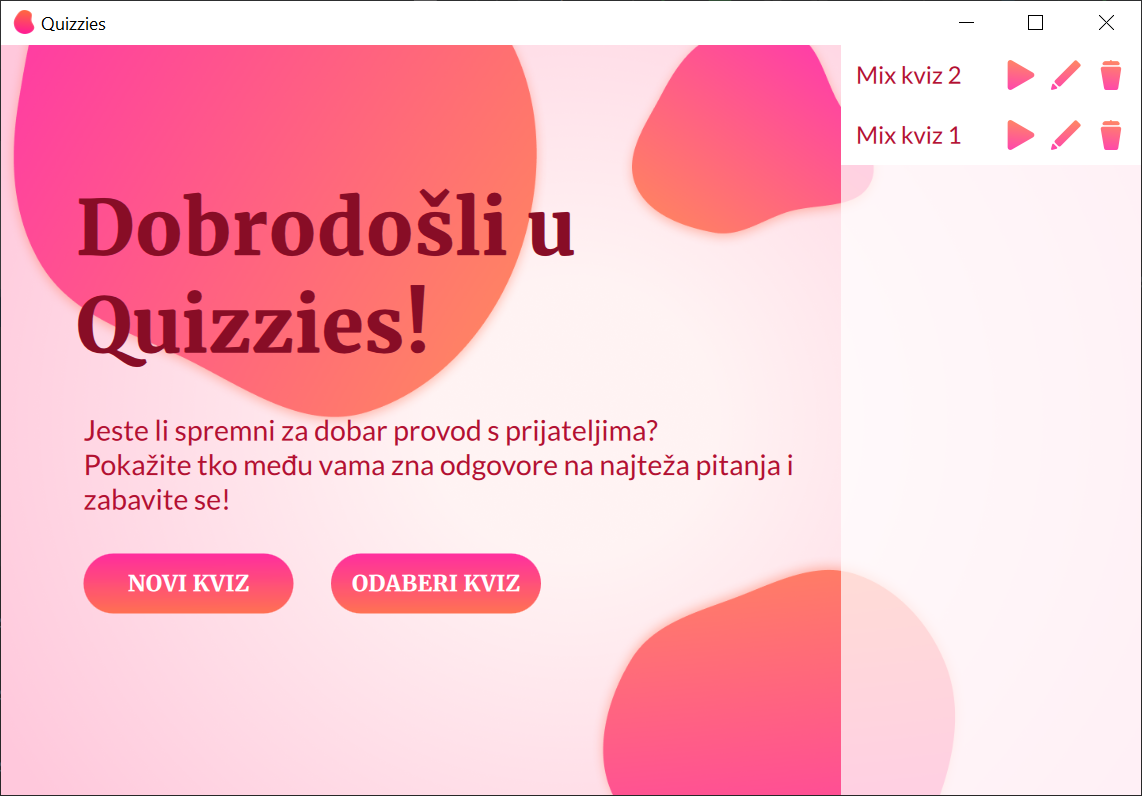
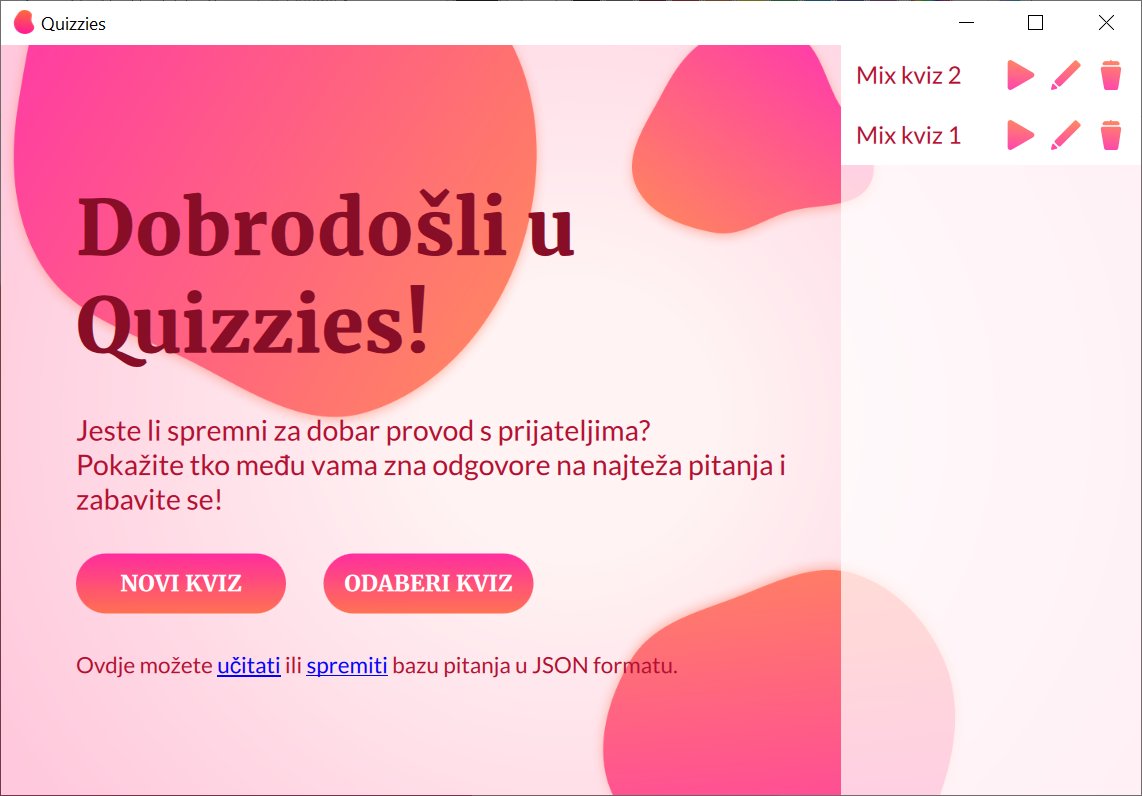
update README.md

diff --git a/README.md b/README.md
@@ -21,6 +21,8 @@ python main.py
 
 On the home screen, you can choose to create your quiz or select one of the existing quizzes. All the quizzes you create and the few default ones are displayed in a list, and you can either view them, edit them or delete them.
 
+You can also import or export the database in JSON format.
+
 ![Home page](/images/HomePage.png "Home page")
 
 Pressing the *Play* button will open the selected quiz in Presentation mode. This is a tool that you can use when your group of friends gathers around (live or online) to answer all the questions you, the trivia king, collected and are now presenting to them. All the categories and questions will be previewed, as you press the *Previous* and *Next* buttons at the bottom of the screen.
@@ -35,8 +37,7 @@ Click on the category to expand it.
 
 Click on the question to view the details section on the right side of the screen. You can edit the question, its short description, answer, or the number of points, just remember to save your changes.
 
-Right-click on the category to change its name and press *Enter* to save 
-the changes.
+Right-click on the category to change its name and press *Enter* to save the changes.
 
 In the top right corner, you can edit the quiz name using right-click and pressing *Enter* to save the changes.
 
@@ -64,7 +65,7 @@ Two models are implemented in the Quizzies app:
   - inherited from [QAbstractListModel](https://doc.qt.io/qt-6/qabstractlistmodel.html)
   - used on the home screen
   - contains the list of all the quizzes
-  - contains slots for creating, updating, deleting quizzes and fetching details (categories and questions)
+  - contains slots for creating, updating, and deleting quizzes, fetching details (categories and questions), and saving and loading the database in JSON format
   - overrides methods `data`, `insertRow` and `removeRow`
 
 
@@ -80,5 +81,7 @@ Two models are implemented in the Quizzies app:
 This application is conceived as a starting point for a potentially more complex project, which could be upgraded in several ways.
 
 First, different types of questions could be introduced, such as questions with images or multiple-choice questions. The database schema already supports those changes, it would only be a matter of upgrading the UI. 
+
+Currently, the database schema supports a many-to-many relationship between categories and questions, which means that a single question could be a part of multiple categories or quizzes without making any changes to the database or the core logic. This, however, has not yet been implemented in the UI. It could be achieved by creating a new QAbstractListModel which contains all the questions in the database, displaying them in the createDialog (file `src/qml/QuizziesTreeViewDelegate.qml`, line 94), possibly adding a filter for easier navigation, and making adjustments to the `CategoriesTreeModel::createQuestion` slot.
 
 Finally, it could be very interesting to create a mobile or web client-side to Quizzies, where the participants could answer the questions presented in this app, and the scoreboard would be automatically generated based on the number of correct answers and points.
